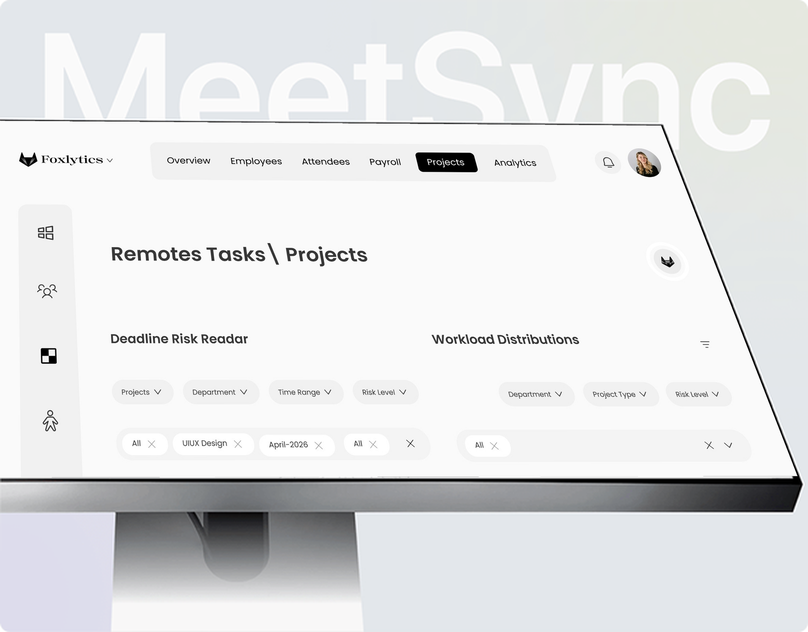
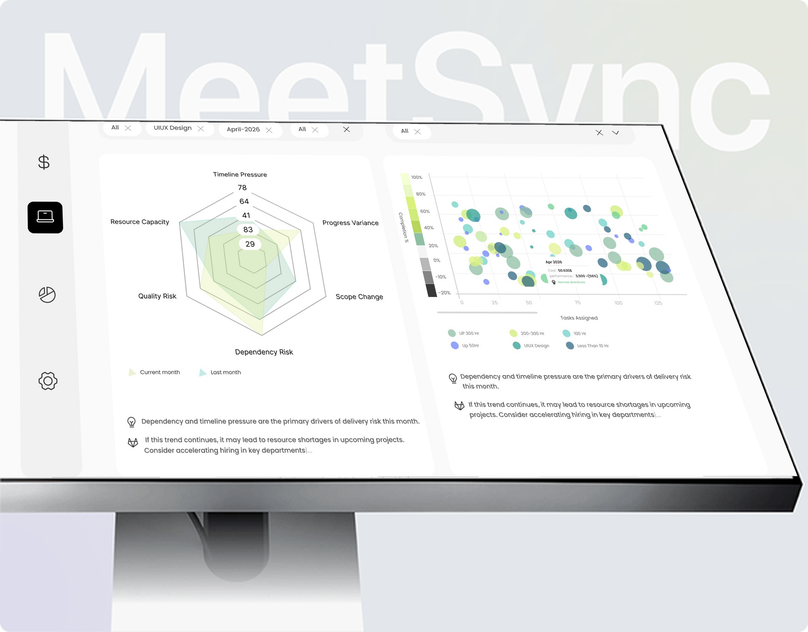
Behance mockups: meadow laptop with recoloured flowers (3 palettes); MeetSync display shows the charts
Claude-Session: https://claude.ai/code/session_01FdYAnoP1AuAPuCnLWf7gdc

diff --git a/behance-cover/mockups/meadow.py b/behance-cover/mockups/meadow.py
@@ -1,0 +1,70 @@
+# The flower-meadow laptop from the larger Behance capture: flowers recoloured, the laptop screen
+# replaced by the Foxlytics dashboard, everything else as photographed. Behance cover 1616 x 1264.
+import sys, colorsys, numpy as np
+from PIL import Image, ImageDraw
+from scipy import ndimage
+I = '/tmp/claude-0/-home-user-claude-Ai-website-1/fd49522e-f0ff-52ed-b6c7-08cca43cc4fd/images/'
+# new hue (degrees) for each family of petal colour: (orange/peach, pink/magenta, purple, blue)
+PALETTES = {
+    'brand':  (72, 165, 182, 200),     # lime, teal, deep teal, sky: the dashboard's chart colours
+    'white':  None,                    # white / cream petals
+    'sunset': (38, 8, 350, 20),        # golden, red, rose, coral
+}
+img = Image.open(I + '118.webp').convert('RGB').crop((202, 214, 1800, 1203))
+a = np.asarray(img).astype(np.float32) / 255
+hsv = np.asarray(img.convert('HSV')).astype(np.float32)
+H = hsv[..., 0] * 360 / 255; S = hsv[..., 1] / 255; V = hsv[..., 2] / 255
+# petals: saturated, and not grass / stem green-yellow (hue 45..160)
+petal = (S > 0.18) & (V > 0.25) & ~((H > 45) & (H < 160))
+petal = ndimage.binary_opening(petal, iterations=1)
+soft = ndimage.gaussian_filter(petal.astype(np.float32), 0.8)
+
+# the screen: bright, low-saturation region (its outline is the paste mask, so the flower in front of
+# the lower right stays in front); corners measured on the capture
+lum = a.mean(-1) * 255; sat = (a.max(-1) - a.min(-1)) * 255
+lab, _ = ndimage.label((lum > 150) & (sat < 40))
+scr = ndimage.binary_fill_holes(lab == lab[650 - 214, 1000 - 202])
+scr = ndimage.binary_dilation(scr, iterations=1)
+Q = [(647, 327), (995, 376), (979, 564), (636.5, 535.5)]          # TL TR BR BL in the cropped capture
+dash = Image.open(I + '110.jpg').convert('RGB')
+def coeffs(dst, pts):
+    A, B = [], []
+    for (x, y), (u, v) in zip(dst, pts):
+        A += [[x, y, 1, 0, 0, 0, -u * x, -u * y], [0, 0, 0, x, y, 1, -v * x, -v * y]]; B += [u, v]
+    return np.linalg.solve(np.array(A, float), np.array(B, float))
+def recolour(name):
+    pal = PALETTES[name]; out = a.copy()
+    ys, xs = np.nonzero(soft > 0.01); h = H[ys, xs]; s = S[ys, xs]; v = V[ys, xs]
+    if pal is None:     # white: drop saturation, lift value a little, keep a hint of warmth
+        rgb = np.stack([v * 0.97 + 0.03, v * 0.96 + 0.03, v * 0.92 + 0.02], -1)
+        mix = 0.65
+    else:
+        fam = np.select([(h < 45) | (h >= 345), (h >= 300), (h >= 255)], [0, 1, 2], 3)
+        nh = np.array(pal, float)[fam] / 360
+        rgb = np.array([colorsys.hsv_to_rgb(hh, min(ss * 1.05, 1), vv) for hh, ss, vv in zip(nh, s, v)])
+        mix = 1.0
+    w = soft[ys, xs][:, None] * mix
+    out[ys, xs] = out[ys, xs] * (1 - w) + rgb * w
+    o = Image.fromarray((out.clip(0, 1) * 255).astype(np.uint8))
+    # Behance cover shape (808:632), full height, centred on the laptop; composite the screen at that size
+    w = round(o.height * 808 / 632); x0 = int(np.clip(1010 - 202 - w / 2, 0, o.width - w))
+    k = 1264 / o.height; SS = 3
+    o = o.crop((x0, 0, x0 + w, o.height)).resize((1616, 1264), Image.LANCZOS)
+    q = [((x - x0) * k, y * k) for x, y in Q]
+    tl, tr, br, bl = q
+    sw = (np.hypot(tr[0] - tl[0], tr[1] - tl[1]) + np.hypot(br[0] - bl[0], br[1] - bl[1])) / 2
+    sh = (np.hypot(bl[0] - tl[0], bl[1] - tl[1]) + np.hypot(br[0] - tr[0], br[1] - tr[1])) / 2
+    src = dash.crop((0, 560, dash.width, 560 + round(dash.width * sh / sw)))
+    src = src.resize((int(sw * SS), int(sh * SS)), Image.LANCZOS)          # pre-shrink: no aliasing in the warp
+    qs = [(x * SS, y * SS) for x, y in q]; outer = qs
+    # extend the quad a hair outward so the mask's edge pixels are covered too
+    cx, cy = np.mean([p[0] for p in qs]), np.mean([p[1] for p in qs]); ext = [(cx + (x - cx) * 1.012, cy + (y - cy) * 1.012) for x, y in qs]
+    c = coeffs(ext, [(0, 0), (src.width, 0), (src.width, src.height), (0, src.height)])
+    warped = src.transform((1616 * SS, 1264 * SS), Image.PERSPECTIVE, tuple(c), Image.BICUBIC).resize((1616, 1264), Image.LANCZOS)
+    m = Image.fromarray((scr[:, x0:x0 + w] * 255).astype(np.uint8)).resize((1616, 1264), Image.LANCZOS)
+    m = np.asarray(m).astype(np.float32)[..., None] / 255
+    res = np.asarray(o).astype(np.float32) * (1 - m) + np.asarray(warped).astype(np.float32) * m
+    return Image.fromarray(res.clip(0, 255).astype(np.uint8))
+
+for n in (sys.argv[1:] or PALETTES):
+    r = recolour(n); r.save(f'meadow-{n}.png'); r.resize((808, 632), Image.LANCZOS).save(f'meadow-{n}-808.png'); print('done', n)

diff --git a/behance-cover/mockups/mock5.py b/behance-cover/mockups/mock5.py
@@ -119,7 +119,7 @@ SCENES = {
     'flowers':  dict(src='114.webp', card=(12, 0, 672, 516), quad=[(270, 155.5), (433.5, 177.5), (427, 278), (264, 254)],
                      radius=2, keep_color=flowers_114),
     'meetsync': dict(src='115.png', card=(56, 27, 716, 543), quad=[(56, 125.5), (596, 129.5), (707.5, 416), (56, 417)],
-                     top=0),
+                     top=960),
     'dark-stand': dict(src='116.webp', card=(22, 49, 682, 565), quad=[(94, 138), (593, 210), (589, 533), (102, 433)],
                      clean=clean_116a),
     'tablet':   dict(src='116.webp', card=(730, 49, 1390, 565), quad=[(822, 179), (1298, 177), (1323, 441), (797, 441)], radius=9),
